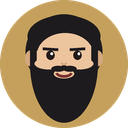
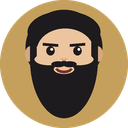
Centre each head in its disc; no stubble for Имран
Each face's height is now worked out so the whole head, from the top of
the hair to the end of the beard, sits in the middle of its disc. Имран
goes back to a clean face.

Claude-Session: https://claude.ai/code/session_01VVyC4KaHFkdZjDhihxHS3w

Changed region(s): [[0.1875, 0.0625, 0.8125, 0.9688]]

diff --git a/tool/generate_avatars.py b/tool/generate_avatars.py
@@ -18,7 +18,6 @@ Requires Pillow.
 """
 import argparse
 import os
-import random
 
 from PIL import Image, ImageChops, ImageDraw
 
@@ -36,18 +35,37 @@ MOUTH = (120, 48, 44, 255)
 FRAME = (28, 28, 36, 255)
 CHEEK = (236, 140, 130, 90)
 
-# Every face is drawn at the same size and height, sized so the longest
-# beard still ends inside the disc. Only the face's width differs, where
-# the description asks for a slimmer face.
+# Every face is drawn at the same size, small enough for the longest beard
+# to end inside the disc. Only the face's width differs, where the
+# description asks for a slimmer face.
 FACE_SIZE = 0.88
-FACE_CENTRE = 0.45
+
+# How far each beard hangs below the chin, as (top, extra depth past the
+# face's own half-height in units of S). Shared by the drawing and by the
+# centring, so the two never disagree.
+BEARD_SHAPE = {
+    'long': (0.16, 0.16),
+    'medium': (0.18, 0.035),
+}
+
+
+def centred(beard, size=FACE_SIZE):
+    """The face centre (as a share of S) that puts the whole head -- top
+    of the hair to the end of the beard -- in the middle of the disc."""
+    ry = 0.34 * size
+    top = 1.13 * ry
+    bottom = ry
+    if beard in BEARD_SHAPE:
+        start, extra = BEARD_SHAPE[beard]
+        bottom = start * ry + ry + extra
+    return 0.5 - (bottom - top) / 2
 
 PEOPLE = [
     # file, background, hair, face width, beard, glasses
     ('azamat', (196, 160, 92, 255), BLACK_HAIR, 1.0, 'long', False),
     ('aslan', (74, 150, 140, 255), BLACK_HAIR, 0.78, 'short', False),
     ('muhammad', (132, 102, 176, 255), BROWN_HAIR, 1.0, 'medium', True),
-    ('imran', (78, 128, 200, 255), BLACK_HAIR, 0.96, 'sparse', True),
+    ('imran', (78, 128, 200, 255), BLACK_HAIR, 0.96, None, True),
 ]
 
 # How much of the hair colour shows through each beard. Stubble is the same
@@ -62,8 +80,8 @@ def ellipse(draw, cx, cy, rx, ry, **kw):
     draw.ellipse((cx - rx, cy - ry, cx + rx, cy + ry), **kw)
 
 
-def face(background, hair, width, beard, glasses,
-         size=FACE_SIZE, centre=FACE_CENTRE):
+def face(background, hair, width, beard, glasses, size=FACE_SIZE):
+    centre = centred(beard, size)
     image = Image.new('RGBA', (S, S), (0, 0, 0, 0))
     draw = ImageDraw.Draw(image)
     cx, cy = S / 2, S * centre
@@ -85,10 +103,11 @@ def face(background, hair, width, beard, glasses,
     eye_y = cy - ry * 0.06
     eye_dx = rx * 0.40
 
-    if beard and beard != 'sparse':
+    if beard:
         top, depth = {
-            'long': (0.16, ry + S * 0.16),
-            'medium': (0.18, ry + S * 0.035),
+            'long': (BEARD_SHAPE['long'][0], ry + S * BEARD_SHAPE['long'][1]),
+            'medium': (BEARD_SHAPE['medium'][0],
+                       ry + S * BEARD_SHAPE['medium'][1]),
             'short': (0.30, ry * 0.70),
             'stubble': (0.26, ry * 0.76),
         }[beard]
@@ -132,30 +151,6 @@ def face(background, hair, width, beard, glasses,
             ellipse(cheek_draw, cx + side * rx * 0.58, cy + ry * 0.22,
                     rx * 0.16, ry * 0.08, fill=CHEEK)
         image.alpha_composite(cheeks)
-
-    if beard == 'sparse':
-        # A few short hairs scattered along the jaw and chin: very sparse
-        # stubble. Seeded, so every run draws the same face.
-        rng = random.Random(7)
-        hairs = Image.new('RGBA', (S, S), (0, 0, 0, 0))
-        hd = ImageDraw.Draw(hairs)
-        colour = hair[:3] + (150,)
-        placed = 0
-        while placed < 26:
-            x = cx + rng.uniform(-1, 1) * rx * 0.92
-            y = cy + rng.uniform(0.22, 0.95) * ry
-            inside = ((x - cx) / rx) ** 2 + ((y - cy) / ry) ** 2 < 0.86
-            near_mouth = abs(x - cx) < rx * 0.32 and abs(y - (cy + ry * 0.38)) < ry * 0.12
-            near_cheek = (abs(abs(x - cx) - rx * 0.58) < rx * 0.2
-                          and abs(y - (cy + ry * 0.22)) < ry * 0.1)
-            if not inside or near_mouth or near_cheek:
-                continue
-            tilt = rng.uniform(-0.5, 0.5)
-            length = S * 0.016
-            hd.line((x, y, x + length * tilt, y + length), fill=colour,
-                    width=max(1, int(S * 0.006)))
-            placed += 1
-        image.alpha_composite(hairs)
 
     # Smile.
     draw.arc((cx - rx * 0.26, cy + ry * 0.24, cx + rx * 0.26, cy + ry * 0.52),
